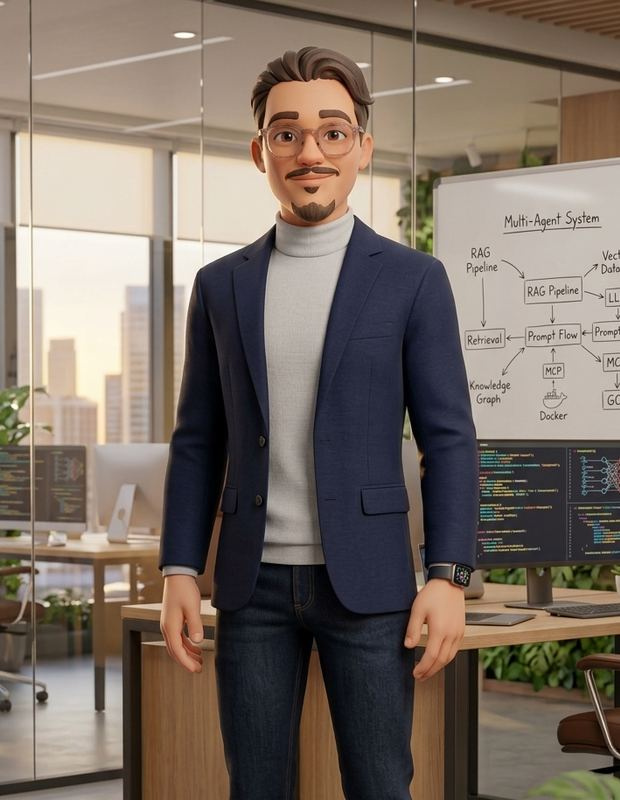
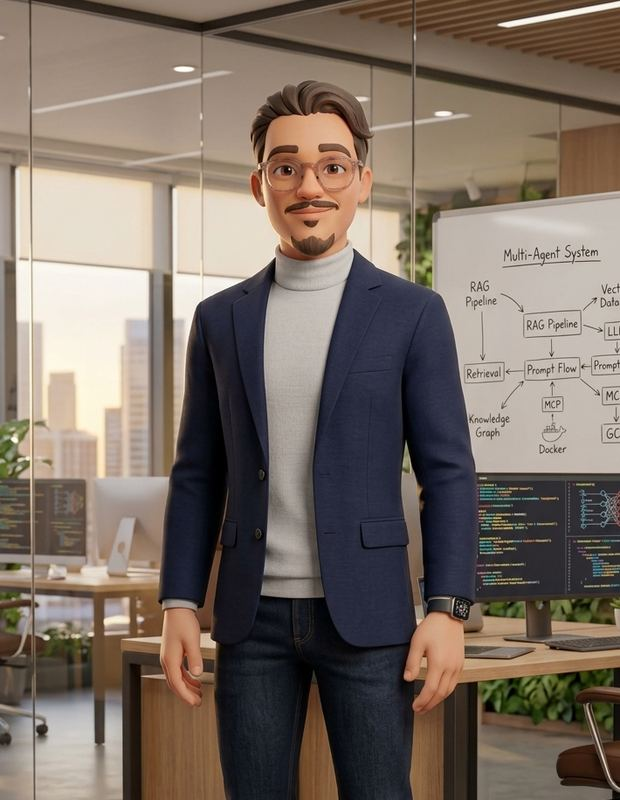
fix: stop the right-rail scenes clipping the top of the head
Reported on the experience and certifications scenes: the hair was cut off
at the top edge.

Two crops were stacking. prepare_scenes.py cover-fits each source into a
620x800 box and took its slice from the centre, and the rail then crops
again at display time because the column is narrower than the image. Both
were trimming from the top, where the heads are.

The script now takes a per-scene vertical bias: 0.0 keeps the top of the
frame, 0.5 centres, 1.0 keeps the bottom. Scenes with a head near the top
get 0.00 to 0.05; wider establishing shots keep 0.20 to 0.30. Two crop
boxes also start higher in the source to give real headroom rather than
relying on the bias alone.

At display time the images get object-position: 50% 22%, so the second
crop favours the top as well.

All seven scenes regenerated. Sizes are unchanged, 55 to 84 KB.

diff --git a/src/components/SceneRail.scss b/src/components/SceneRail.scss
@@ -35,6 +35,9 @@
     width: 100%;
     height: 100%;
     object-fit: cover;
+    // The rail is narrower than the image, so cover crops again at display
+    // time. Favouring the top keeps heads intact rather than clipping hair.
+    object-position: 50% 22%;
     opacity: 0;
     transform: scale(1.04);
     transition: opacity .7s ease, transform 1.2s cubic-bezier(.22, .61, .36, 1);

diff --git a/scripts/prepare_scenes.py b/scripts/prepare_scenes.py
@@ -17,26 +17,30 @@ IMG = ROOT / "src" / "assets" / "img"
 
 W, H = 620, 800  # 2x the ~310px rail width, portrait
 
-# section id -> (source file, crop box)
+# section id -> (source file, crop box, vertical bias)
+#
+# Bias controls where the cover-fit crop takes its slice: 0.0 keeps the top of
+# the frame, 0.5 centres, 1.0 keeps the bottom. Heads sit near the top of these
+# renders, so centring clipped the hair. Low values leave headroom.
 SCENES = {
-    "home":           ("landing page.png", (40, 180, 740, 1085)),
-    "experience":     ("herome.png",       (30,  70, 740, 985)),
-    "work":           ("projectsme.png",   (20, 120, 750, 1060)),
-    "skills":         ("mult3d.png",       (0,  632, 421, 1176)),   # open office
-    "about":          ("3Dmebetter.png",   (35,  60, 800, 1050)),
-    "certifications": ("mult3d.png",       (0,    0, 421,  600)),   # boardroom
-    "contact":        ("contactme.png",    (620,  20, 1180, 740)),
+    "home":           ("landing page.png", (40, 180, 740, 1085), 0.30),
+    "experience":     ("herome.png",       (30,  30, 740, 985),  0.05),
+    "work":           ("projectsme.png",   (20, 120, 750, 1060), 0.20),
+    "skills":         ("mult3d.png",       (0,  600, 421, 1176), 0.05),   # open office
+    "about":          ("3Dmebetter.png",   (35,  40, 800, 1050), 0.05),
+    "certifications": ("mult3d.png",       (0,    0, 421,  620), 0.00),   # boardroom
+    "contact":        ("contactme.png",    (620,  20, 1180, 740), 0.20),
 }
 
 
 def main():
-    for section, (src, box) in SCENES.items():
+    for section, (src, box, bias) in SCENES.items():
         im = Image.open(IMG / src).convert("RGB").crop(box)
         # cover-fit into the target box without distorting
         ratio = max(W / im.width, H / im.height)
         im = im.resize((round(im.width * ratio), round(im.height * ratio)), Image.LANCZOS)
         left = (im.width - W) // 2
-        top = (im.height - H) // 2
+        top = int((im.height - H) * bias)
         im = im.crop((left, top, left + W, top + H))
 
         out = IMG / f"scene-{section}.jpg"
